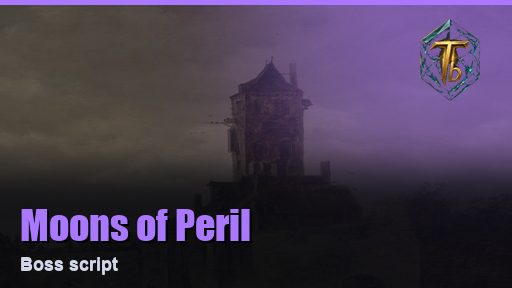
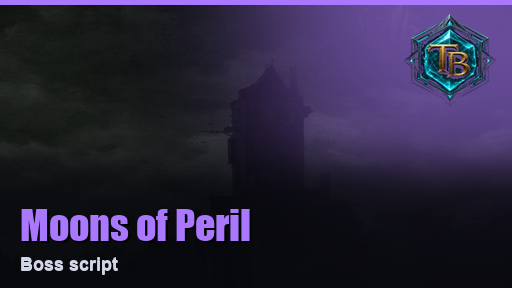
catalog: plain script names (no [T] html markup), full cardUrl art for all 10, new TB crest
Every entry got cardUrl coverage; Zulrah/Firecape titles de-branded to
plain script names. Card art regenerated with the new TechBot crest.

diff --git a/images/make_cards.py b/images/make_cards.py
@@ -14,9 +14,16 @@ LOGO = r"C:\Users\Bryan\IdeaProjects\TechBot-Launcher\images\techbot.png"
 W, H = 512, 288
 # (title, accent glow RGB, subtitle)
 CARDS = [
-    ("TechBotZulrahPlugin.png",  "TechBot Zulrah",      (184, 247,   4), "Boss script"),
+    ("TechBotZulrahPlugin.png",  "Zulrah",              (184, 247,   4), "Boss script"),
     ("MoonsOfPerilPlugin.png",   "Moons of Peril",      (170, 120, 255), "Boss script"),
-    ("TechBotFirecapePlugin.png","TechBot Firecape",    (255, 150,  40), "Fight Caves"),
+    ("TechBotFirecapePlugin.png","Firecape",            (255, 150,  40), "Fight Caves"),
+    ("FleetPlugin.png",          "Fleet Control",       ( 90, 200, 255), "Multi-account fleet"),
+    ("TechsAioPlugin.png",       "AIO",                 (255,  90,  90), "All-in-one skilling"),
+    ("AccountBuilderPlugin.png", "AccountBuilder",      ( 70, 230, 160), "Account creation"),
+    ("TechBotChinTickManipulationPlugin.png", "Chin Tick Manipulation", (255, 220, 70), "Chinchompa training"),
+    ("TechsMulePlugin.png",      "Mule",                (200, 140, 255), "Gold transfer"),
+    ("TechQolPlugin.png",        "QoL",                 (120, 170, 255), "Quality of life"),
+    ("TechBotFlipperPlugin.png", "Flipper",             ( 60, 255, 180), "GE flipping"),
 ]
 
 hero = Image.open(HERO).convert("RGB")
